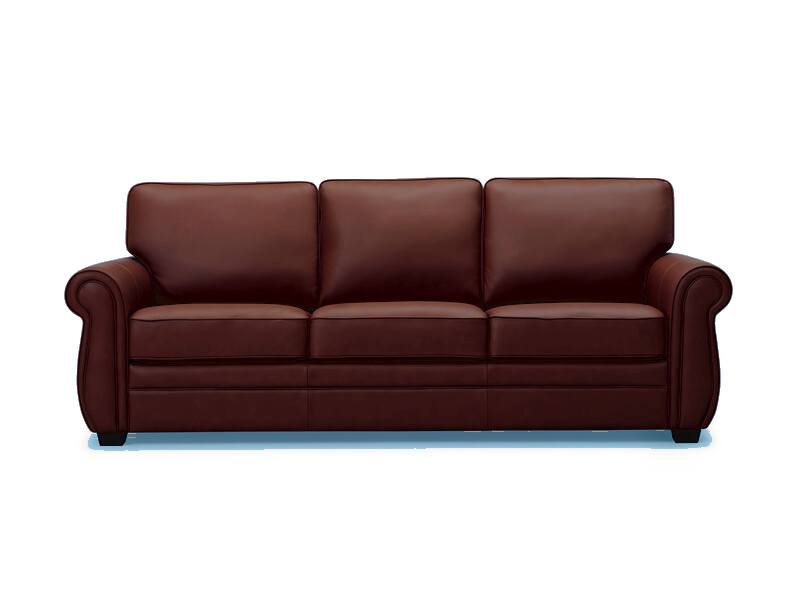
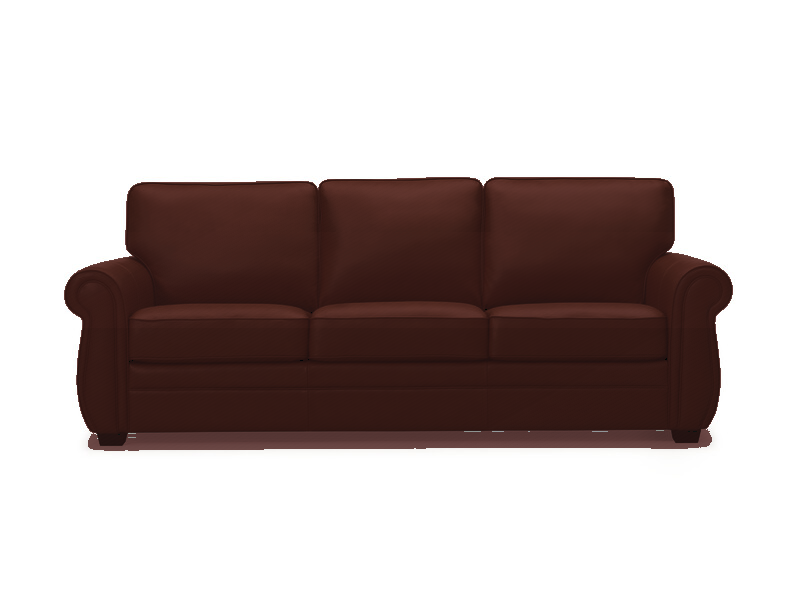
Load PLP enforcer via template.min.js and mccabe-overrides body-last CSS.
Baked pages never loaded mc-plp-enforcer; frozen script URLs kept old renderer. Append bootstrap to template.min (no cache bust), win rules at end of mccabe-overrides for #mc-mccabe-overrides-body-last after inline cover CSS.

diff --git a/vspfiles/templates/266/css/mccabe-overrides.css b/vspfiles/templates/266/css/mccabe-overrides.css
@@ -1198,3 +1198,102 @@ html.is-category-or-listing-page .v-product-grid .v-product a.v-product__img > i
   height: 220px !important;
   max-height: 220px !important;
 }
+
+/* MC_OVERRIDES_BODY_LAST_20260518e — #mc-mccabe-overrides-body-last loads after baked inline object-fit:cover */
+html body:not(.productdetails) #content_area ul.v-product-grid > li.v-product > a.v-product__img,
+html body:not(.productdetails) #content_area .v-product-grid a.v-product__img,
+html.category body:not(.productdetails) #content_area ul.v-product-grid > li.v-product > a.v-product__img,
+html.category body:not(.productdetails) #content_area .v-product-grid a.v-product__img,
+html.is-category-or-listing-page #content_area ul.v-product-grid > li.v-product > a.v-product__img,
+html.is-category-or-listing-page .v-product-grid a.v-product__img,
+:is(html.category, body.category) .v-product-grid .v-product > a.v-product__img,
+:is(html.category, body.category) .v-product-grid .v-product a.v-product__img {
+  display: flex !important;
+  align-items: flex-end !important;
+  justify-content: center !important;
+  width: 100% !important;
+  height: 280px !important;
+  min-height: 280px !important;
+  max-height: 280px !important;
+  margin: 0 !important;
+  padding: 14px !important;
+  overflow: hidden !important;
+  box-sizing: border-box !important;
+  background: #f2f2f2 !important;
+  line-height: 0 !important;
+}
+
+html body:not(.productdetails) #content_area ul.v-product-grid > li.v-product > a.v-product__img > img,
+html body:not(.productdetails) #content_area .v-product-grid a.v-product__img > img,
+html.category body:not(.productdetails) #content_area ul.v-product-grid > li.v-product > a.v-product__img > img,
+html.category body:not(.productdetails) #content_area .v-product-grid a.v-product__img > img,
+html.category .v-product-grid .v-product .v-product__img img,
+html.category .v-product-grid .v-product .v-product__image img,
+html.category .v-product-grid .v-product a.v-product__img > img,
+html.is-category-or-listing-page .v-product-grid a.v-product__img > img,
+:is(html.category, body.category) .v-product-grid .v-product .v-product__img img,
+:is(html.category, body.category) ul.v-product-grid > li.v-product .v-product__img img {
+  width: 100% !important;
+  height: 220px !important;
+  max-width: 100% !important;
+  max-height: 220px !important;
+  min-height: 0 !important;
+  object-fit: contain !important;
+  object-position: center bottom !important;
+  margin: 0 auto !important;
+  border: 0 !important;
+  border-width: 0 !important;
+  display: block !important;
+  box-sizing: border-box !important;
+  background: transparent !important;
+}
+
+@media (max-width: 991px) {
+  html body:not(.productdetails) #content_area ul.v-product-grid > li.v-product > a.v-product__img,
+  html.category body:not(.productdetails) #content_area ul.v-product-grid > li.v-product > a.v-product__img,
+  :is(html.category, body.category) ul.v-product-grid > li.v-product .v-product__img {
+    height: 220px !important;
+    min-height: 220px !important;
+    max-height: 220px !important;
+    padding: 12px !important;
+  }
+
+  html body:not(.productdetails) #content_area ul.v-product-grid > li.v-product > a.v-product__img > img,
+  html.category body:not(.productdetails) #content_area ul.v-product-grid > li.v-product > a.v-product__img > img,
+  html.category .v-product-grid .v-product .v-product__img img,
+  :is(html.category, body.category) .v-product-grid .v-product .v-product__img img,
+  :is(html.category, body.category) ul.v-product-grid > li.v-product .v-product__img img {
+    height: 172px !important;
+    max-height: 172px !important;
+    object-fit: contain !important;
+    object-position: center bottom !important;
+  }
+}
+
+#if_homepage,
+#slideshow-container,
+#slideshow-container .mc-hero-video {
+  display: none !important;
+  height: 0 !important;
+  min-height: 0 !important;
+  max-height: 0 !important;
+  overflow: hidden !important;
+  opacity: 0 !important;
+  background: transparent !important;
+}
+
+html.mc-allow-home-hero body.is-home #if_homepage,
+html.mc-allow-home-hero body.is-home #slideshow-container {
+  display: block !important;
+  height: auto !important;
+  opacity: 1 !important;
+}
+
+#display_homepage_title,
+#display_homepage_title * {
+  display: none !important;
+  height: 0 !important;
+  width: 0 !important;
+  overflow: hidden !important;
+  opacity: 0 !important;
+}

diff --git a/sofa-recolor-tool/render-sofas.js b/sofa-recolor-tool/render-sofas.js
@@ -174,12 +174,12 @@ export async function loadImage(path) {
   };
 }
 
-export async function saveImage(data, path, width, height, blurSigma = 0.2) {
+export async function saveImage(data, path, width, height, blurSigma = 0.3) {
   mkdirSync(dirname(path), { recursive: true });
   let pipeline = sharp(data, {
     raw: { width, height, channels: 4 },
   });
-  if (blurSigma > 0) pipeline = pipeline.blur(blurSigma);
+  if (blurSigma >= 0.3) pipeline = pipeline.blur(blurSigma);
   await pipeline.png().toFile(path);
 }
 
@@ -394,21 +394,27 @@ export function getSofaBounds(mask, imgWidth, imgHeight) {
 }
 
 /**
- * Lab anchor: cognac → swatch, keep per-pixel shade. No RGB blending (avoids watercolor).
+ * Luminance shading + soft leather blend (Bali Currant / oxblood spec).
  */
 export function recolorSofa(
   baseImage,
   mask,
-  sourceColor,
+  _sourceColor,
   targetColor,
-  leatherBottomY = null,
-  _sofaBounds = null,
+  _leatherBottomY = null,
+  sofaBounds = null,
+  grainColors = null,
 ) {
   const { data, width, height, channels } = baseImage;
   const out = Buffer.from(data);
+  const { r: tR, g: tG, b: tB } = targetColor;
 
-  const srcLab = rgbToLab(sourceColor.r, sourceColor.g, sourceColor.b);
-  const tgtLab = rgbToLab(targetColor.r, targetColor.g, targetColor.b);
+  const yBack0 = sofaBounds
+    ? sofaBounds.minY + sofaBounds.height * 0.2
+    : 0;
+  const yBack1 = sofaBounds
+    ? sofaBounds.minY + sofaBounds.height * 0.55
+    : height;
 
   for (let y = 0; y < height; y++) {
     for (let x = 0; x < width; x++) {
@@ -423,26 +429,38 @@ export function recolorSofa(
 
       if (!isUpholsteryLeather(oR, oG, oB)) continue;
 
-      const lab = rgbToLab(oR, oG, oB);
-      const s = labShiftStrength(lab.L);
+      const lum = pixelBrightness(oR, oG, oB);
+      let shade = lum / 128;
+      shade = clamp(shade, 0.58, 1.28);
 
-      const fullL = tgtLab.L + (lab.L - srcLab.L);
-      const fullA = tgtLab.a + (lab.a - srcLab.a);
-      const fullB = tgtLab.b + (lab.b - srcLab.b);
+      if (y >= yBack0 && y <= yBack1 && shade < 0.84) {
+        shade = shade * 0.72 + 0.84 * 0.28;
+      }
 
-      const newL = lab.L + (fullL - lab.L) * s;
-      const newA = lab.a + (fullA - lab.a) * s;
-      const newB = lab.b + (fullB - lab.b) * s;
+      let nR = tR * shade;
+      let nG = tG * shade;
+      let nB = tB * shade;
 
-      const [nR, nG, nB] = labToRgb(newL, newA, newB);
+      if (grainColors?.length) {
+        const [gR, gG, gB] = grainColors[(x * 17 + y * 31) % grainColors.length];
+        const grainAmt = 0.05;
+        nR = nR * (1 - grainAmt) + gR * grainAmt;
+        nG = nG * (1 - grainAmt) + gG * grainAmt;
+        nB = nB * (1 - grainAmt) + gB * grainAmt;
+      }
 
-      out[p] = nR;
-      out[p + 1] = nG;
-      out[p + 2] = nB;
+      nR = nR * 0.82 + oR * 0.18;
+      nG = nG * 0.82 + oG * 0.18;
+      nB = nB * 0.82 + oB * 0.18;
+
+      out[p] = Math.round(clamp(nR, 0, 255));
+      out[p + 1] = Math.round(clamp(nG, 0, 255));
+      out[p + 2] = Math.round(clamp(nB, 0, 255));
       if (channels === 4) out[p + 3] = oA;
     }
   }
 
+  applySoftFinish(out, mask, width, height, channels);
   return out;
 }
 
@@ -455,6 +473,7 @@ export async function processSwatch(
   sofaBounds,
 ) {
   const targetColor = await getSwatchTargetColor(swatchPath);
+  const grainColors = await sampleSwatchGrain(swatchPath);
   const outData = recolorSofa(
     baseSofa,
     mask,
@@ -462,13 +481,14 @@ export async function processSwatch(
     targetColor,
     leatherBottomY,
     sofaBounds,
+    grainColors,
   );
   const outName = `${basename(swatchPath, extname(swatchPath))}.png`;
   const outPath = join(OUTPUT_DIR, outName);
-  await saveImage(outData, outPath, baseSofa.width, baseSofa.height);
+  await saveImage(outData, outPath, baseSofa.width, baseSofa.height, 0.3);
 
   const stampPath = join(OUTPUT_DIR, '_last-render.txt');
-  const stamp = `${new Date().toISOString()}\n${basename(swatchPath)}\nmethod: lab-anchor-v4\ntarget: ${targetColor.r},${targetColor.g},${targetColor.b}\n`;
+  const stamp = `${new Date().toISOString()}\n${basename(swatchPath)}\nmethod: oxblood-luminance-spec\ntarget: ${targetColor.r},${targetColor.g},${targetColor.b}\n`;
   mkdirSync(OUTPUT_DIR, { recursive: true });
   writeFileSync(stampPath, stamp);
 

diff --git a/vspfiles/js/mc-plp-enforcer.js b/vspfiles/js/mc-plp-enforcer.js
@@ -1,7 +1,6 @@
 /**
- * PLP gray mats + site-wide hero/logo — runs after baked template inline CSS.
- * Loaded with cache-bust from template mcCssBust (and end of mtl-sectional-renderer).
- * MC_PLP_ENFORCER_20260518d
+ * PLP gray mats + site-wide hero/logo — beats baked template inline CSS (~line 16308).
+ * MC_PLP_ENFORCER_20260518e
  */
 (function (global) {
   "use strict";
@@ -16,7 +15,11 @@
 
   var FINAL_CSS =
     "html body:not(.productdetails) #content_area ul.v-product-grid>li.v-product>a.v-product__img," +
-    "html body:not(.productdetails) #content_area .v-product-grid a.v-product__img{" +
+    "html body:not(.productdetails) #content_area .v-product-grid a.v-product__img," +
+    "html.category body:not(.productdetails) #content_area ul.v-product-grid>li.v-product>a.v-product__img," +
+    "html.category body:not(.productdetails) #content_area .v-product-grid a.v-product__img," +
+    "html.is-category-or-listing-page #content_area ul.v-product-grid>li.v-product>a.v-product__img," +
+    "html.is-category-or-listing-page .v-product-grid a.v-product__img{" +
     "display:flex!important;align-items:flex-end!important;justify-content:center!important;" +
     "width:100%!important;height:" +
     TILE +
@@ -29,17 +32,21 @@
     MAT +
     "!important;line-height:0!important}" +
     "html body:not(.productdetails) #content_area ul.v-product-grid>li.v-product>a.v-product__img>img," +
-    "html body:not(.productdetails) #content_area .v-product-grid a.v-product__img>img{" +
+    "html body:not(.productdetails) #content_area .v-product-grid a.v-product__img>img," +
+    "html.category body:not(.productdetails) #content_area ul.v-product-grid>li.v-product>a.v-product__img>img," +
+    "html.category body:not(.productdetails) #content_area .v-product-grid a.v-product__img>img," +
+    "html.category .v-product-grid .v-product .v-product__img img," +
+    "html.category .v-product-grid .v-product a.v-product__img>img," +
+    "html.is-category-or-listing-page .v-product-grid a.v-product__img>img{" +
     "width:100%!important;height:" +
     STAGE +
     "px!important;max-width:100%!important;max-height:" +
     STAGE +
     "px!important;min-height:0!important;object-fit:contain!important;" +
-    "object-position:center bottom!important;margin:0 auto!important;border:0!important;" +
-    "border-width:0!important;display:block!important;box-sizing:border-box!important;" +
-    "background:transparent!important}" +
+    "object-position:center bottom!important;margin:0 auto!important;border:0!important;border-width:0!important;" +
+    "display:block!important;box-sizing:border-box!important;background:transparent!important}" +
     "@media(max-width:991px){html body:not(.productdetails) #content_area ul.v-product-grid>li.v-product>a.v-product__img," +
-    "html body:not(.productdetails) #content_area .v-product-grid a.v-product__img{height:" +
+    "html.category body:not(.productdetails) #content_area ul.v-product-grid>li.v-product>a.v-product__img{height:" +
     TILE_M +
     "px!important;min-height:" +
     TILE_M +
@@ -47,18 +54,19 @@
     TILE_M +
     "px!important;padding:12px!important}" +
     "html body:not(.productdetails) #content_area ul.v-product-grid>li.v-product>a.v-product__img>img," +
-    "html body:not(.productdetails) #content_area .v-product-grid a.v-product__img>img{height:" +
+    "html.category body:not(.productdetails) #content_area ul.v-product-grid>li.v-product>a.v-product__img>img," +
+    "html.category .v-product-grid .v-product .v-product__img img{height:" +
     STAGE_M +
     "px!important;max-height:" +
     STAGE_M +
-    "px!important}}" +
+    "px!important;object-fit:contain!important;object-position:center bottom!important}}" +
     "#if_homepage,#slideshow-container,#slideshow-container .mc-hero-video,.mc-hero-video{" +
     "display:none!important;visibility:hidden!important;height:0!important;min-height:0!important;" +
     "max-height:0!important;margin:0!important;padding:0!important;overflow:hidden!important;" +
     "opacity:0!important;pointer-events:none!important;background:transparent!important;border:0!important}" +
     "html.mc-allow-home-hero body.is-home #if_homepage,html.mc-allow-home-hero body.is-home #slideshow-container{" +
     "display:block!important;height:auto!important;min-height:0!important;max-height:none!important;" +
-    "opacity:1!important;visibility:visible!important;pointer-events:auto!important}" +
+    "opacity:1!important;visibility:visible!important}" +
     "#display_homepage_title,#display_homepage_title *{display:none!important;visibility:hidden!important;" +
     "height:0!important;width:0!important;overflow:hidden!important;opacity:0!important;" +
     "pointer-events:none!important;font-size:0!important}";
@@ -79,14 +87,19 @@
     if (!el) {
       el = document.createElement("style");
       el.id = id;
-      (document.body || document.head || document.documentElement).appendChild(el);
     }
     el.textContent = isHome()
       ? FINAL_CSS.replace(
-          /#if_homepage,#slideshow-container[\s\S]*?pointer-events:auto!important\}/,
+          /#if_homepage,#slideshow-container[\s\S]*?visibility:visible!important\}/,
           ""
         )
       : FINAL_CSS;
+    var root = document.body || document.documentElement;
+    if (root && el.parentNode !== root) {
+      root.appendChild(el);
+    } else if (root && el !== root.lastElementChild) {
+      root.appendChild(el);
+    }
   }
 
   function applyInline() {
@@ -117,6 +130,7 @@
         if (!img) return;
         img.style.setProperty("border", "0", "important");
         img.style.setProperty("border-width", "0", "important");
+        img.style.setProperty("outline", "0", "important");
         img.style.setProperty("object-fit", "contain", "important");
         img.style.setProperty("object-position", "center bottom", "important");
         img.style.setProperty("height", stage + "px", "important");
@@ -137,6 +151,7 @@
           n.style.setProperty("min-height", "0", "important");
           n.style.setProperty("opacity", "0", "important");
           n.style.setProperty("overflow", "hidden", "important");
+          n.style.setProperty("background", "transparent", "important");
         });
     }
 
@@ -157,7 +172,8 @@
   document.addEventListener("DOMContentLoaded", run);
   global.addEventListener("load", run);
   global.addEventListener("resize", applyInline);
-  [0, 100, 400, 1200, 3000].forEach(function (t) {
+  global.setInterval(run, 400);
+  [0, 50, 150, 400, 1000, 2500, 5000].forEach(function (t) {
     global.setTimeout(run, t);
   });
   global.mcPlpEnforcerRun = run;

diff --git a/template_266.html b/template_266.html
@@ -1053,16 +1053,26 @@ html[data-mc-category-plp="1"] .v-product-grid .v-product>a.v-product__img>img,h
   function mcCssBust() {
     return 'v=' + Date.now() + '&m=' + Math.random().toString(36).slice(2, 12);
   }
+  function mcLoadPlpEnforcer() {
+    if (window.__MC_PLP_ENFORCER_LOADING__) return;
+    window.__MC_PLP_ENFORCER_LOADING__ = 1;
+    var s = document.createElement('script');
+    s.id = 'mc-plp-enforcer-js';
+    s.src = '/v/vspfiles/js/mc-plp-enforcer.js?' + mcCssBust();
+    (document.head || document.documentElement).appendChild(s);
+  }
   var el = document.createElement('link');
   el.rel = 'stylesheet';
   el.id = 'mc-custom-safe-css';
   el.href = '/v/vspfiles/css/custom-safe.css?' + mcCssBust();
+  el.onload = function () { mcLoadPlpEnforcer(); };
   el.onerror = function () {
     this.onerror = function () {
       this.onerror = null;
       this.href = '/vspfiles/css/custom-safe.css?' + mcCssBust();
     };
     this.href = '/v/custom-safe.css?' + mcCssBust();
+    mcLoadPlpEnforcer();
   };
   var ref = document.querySelector('link[href*="d21ivvgspl06jm.cloudfront.net/theme-assets"]');
   if (ref && ref.parentNode) {
@@ -1070,6 +1080,7 @@ html[data-mc-category-plp="1"] .v-product-grid .v-product>a.v-product__img>img,h
   } else {
     document.head.appendChild(el);
   }
+  mcLoadPlpEnforcer();
 })();
 </script>
 <script id="mc-plp-enforcer-loader">

diff --git a/vspfiles/css/custom-safe.css b/vspfiles/css/custom-safe.css
@@ -1,4 +1,4 @@
-/* 0518d C_CSS_DEPLOY_VERIFY_20260518d — tail wins; Store-dot may omit #v65-product-parent */
+/* 0518e C_CSS_DEPLOY_VERIFY_20260518e — tail wins; Store-dot may omit #v65-product-parent */
 /* MC_DEPLOY_VERIFY — PDP hero/ATC column unify; related: table repair skips .mc-related-carousel; PDP retail stack 16px */
 /* McCabe: hero menu match, 992px breakpoint, unified icons, RH-style header search; PDP grid + alt thumbs; hide dup desktop search strip */
 /* Loads after template.css; cache-bust via mcCssBust() in template — not the static ?v= on mccabe-overrides */

diff --git a/vspfiles/js/mtl-sectional-renderer.js b/vspfiles/js/mtl-sectional-renderer.js
@@ -4429,7 +4429,7 @@
   w.__MC_PLP_ENFORCER_LOADING__ = 1;
   var s = d.createElement("script");
   s.src =
-    "/v/vspfiles/js/mc-plp-enforcer.js?v=20260518d&m=" +
+    "/v/vspfiles/js/mc-plp-enforcer.js?v=20260518e&m=" +
     Date.now();
   (d.head || d.documentElement).appendChild(s);
 })(window, document);